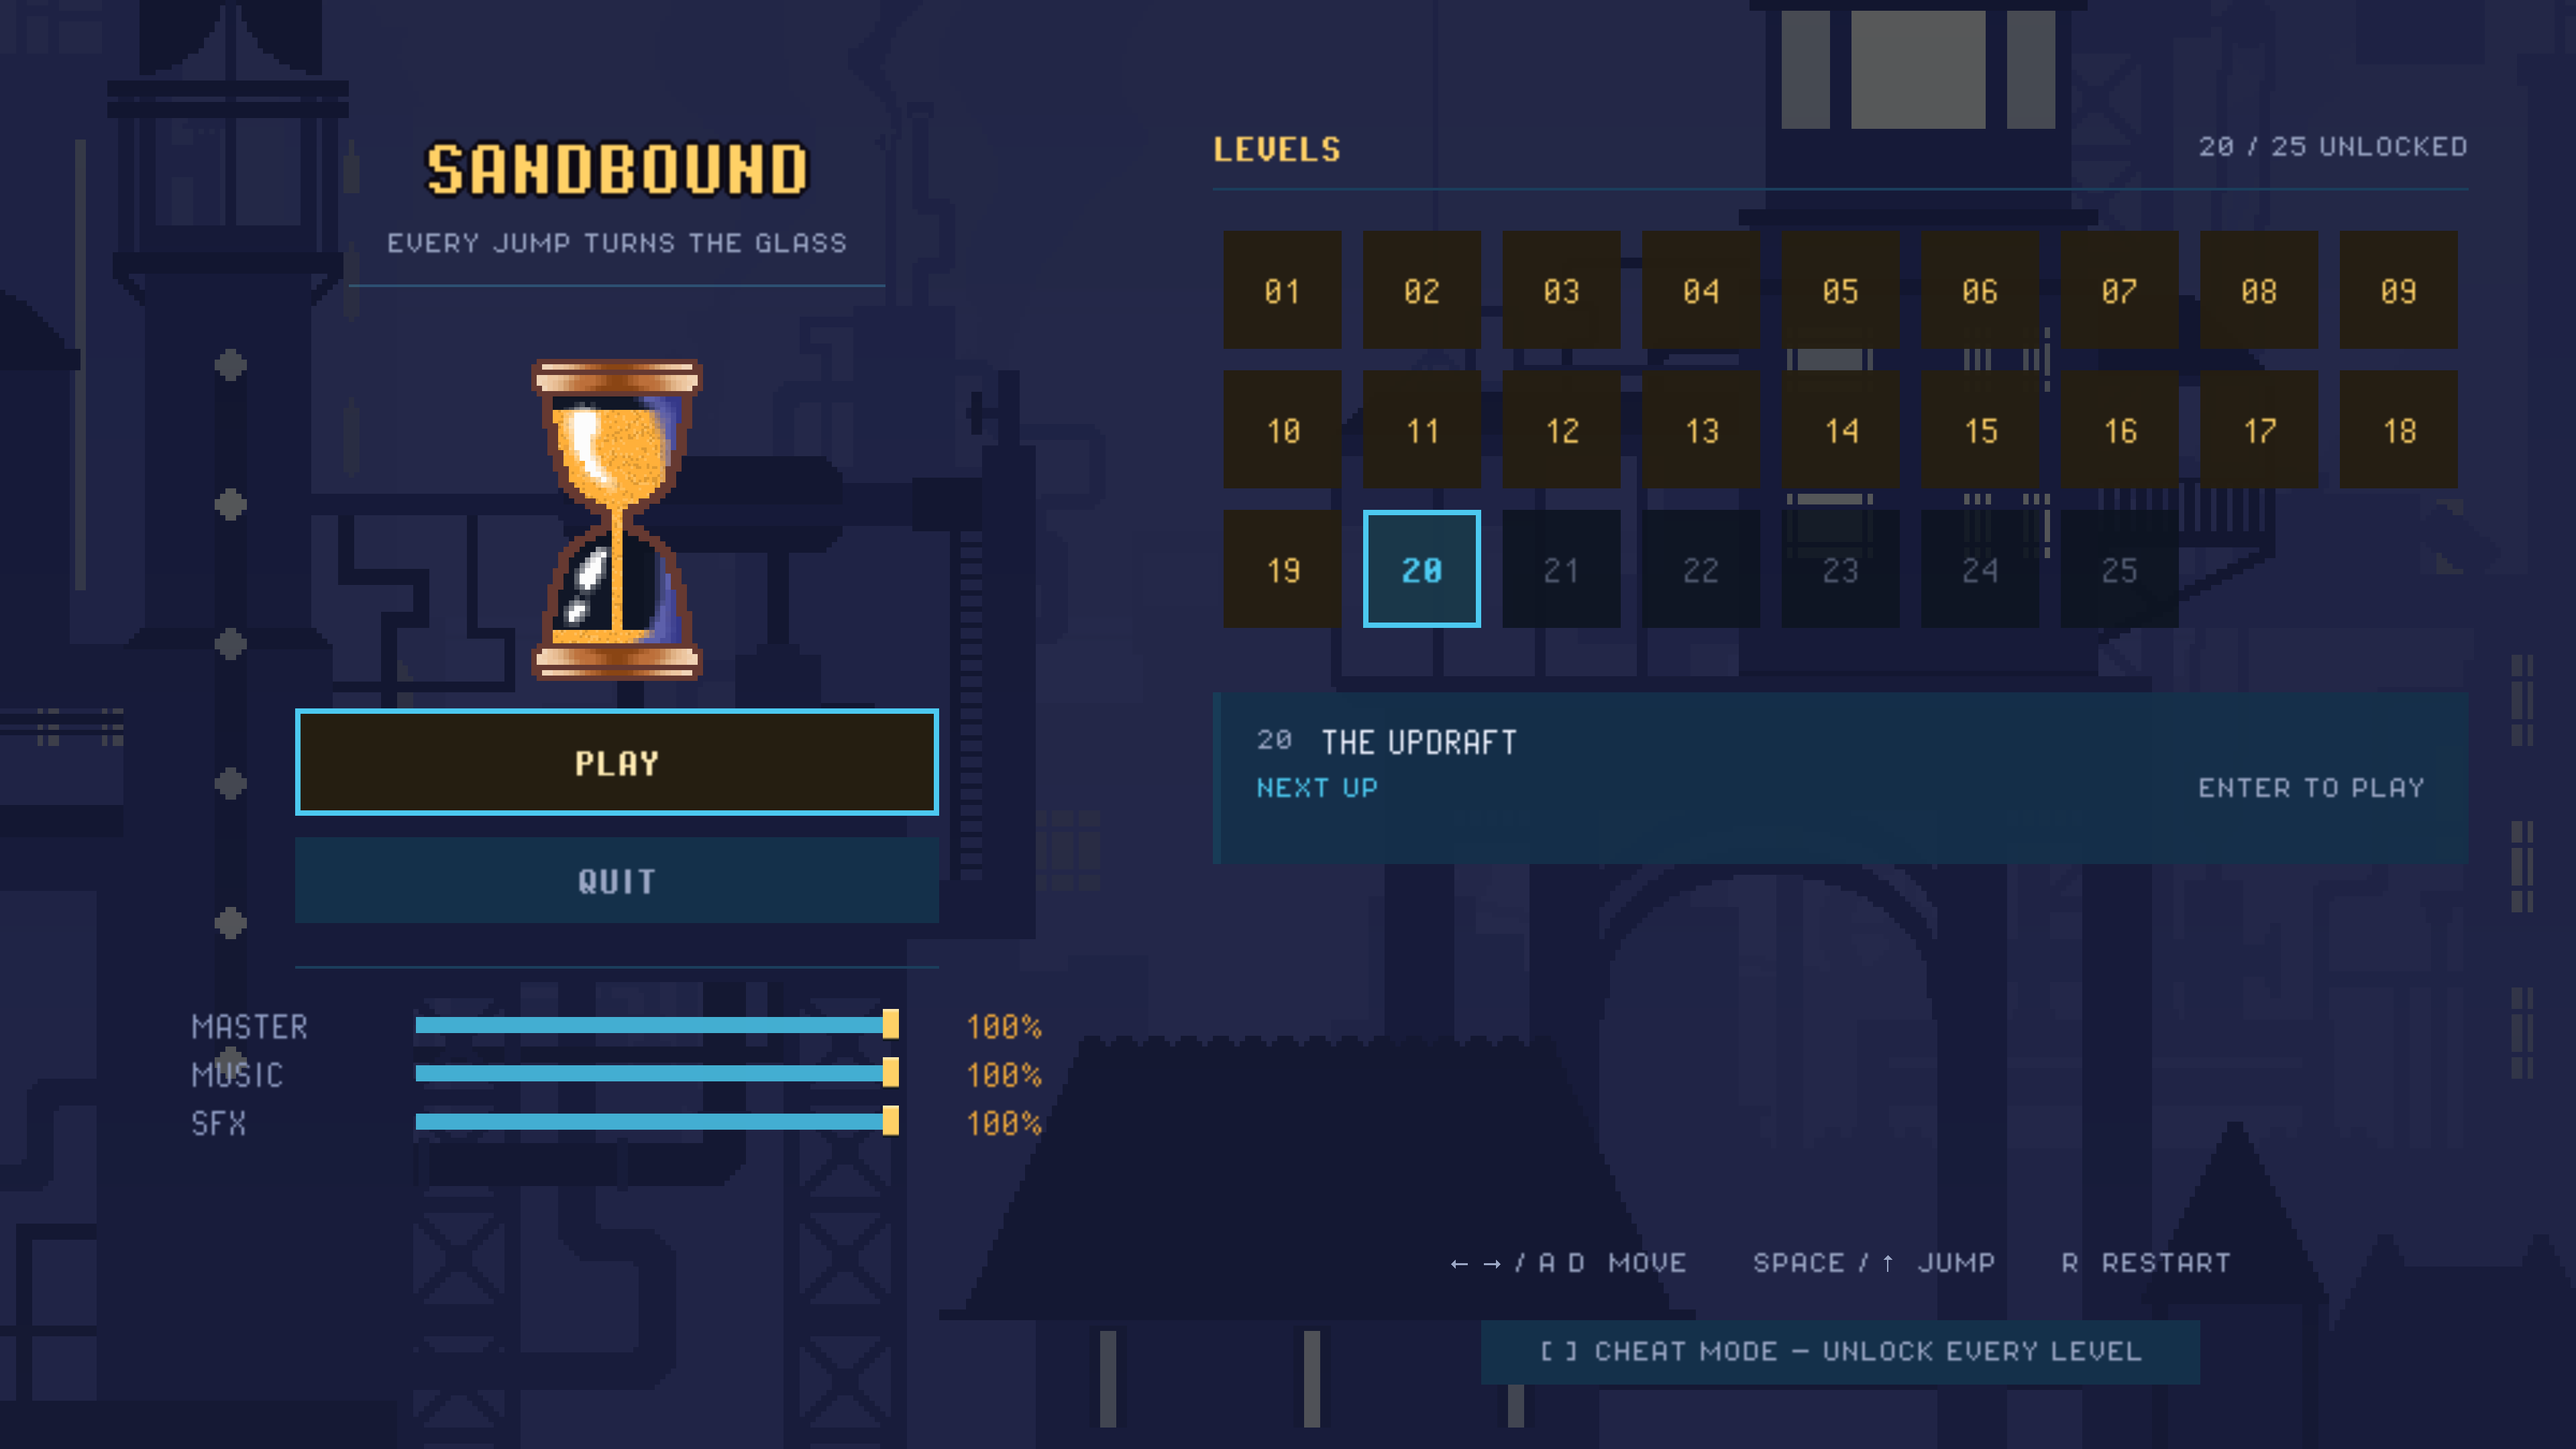
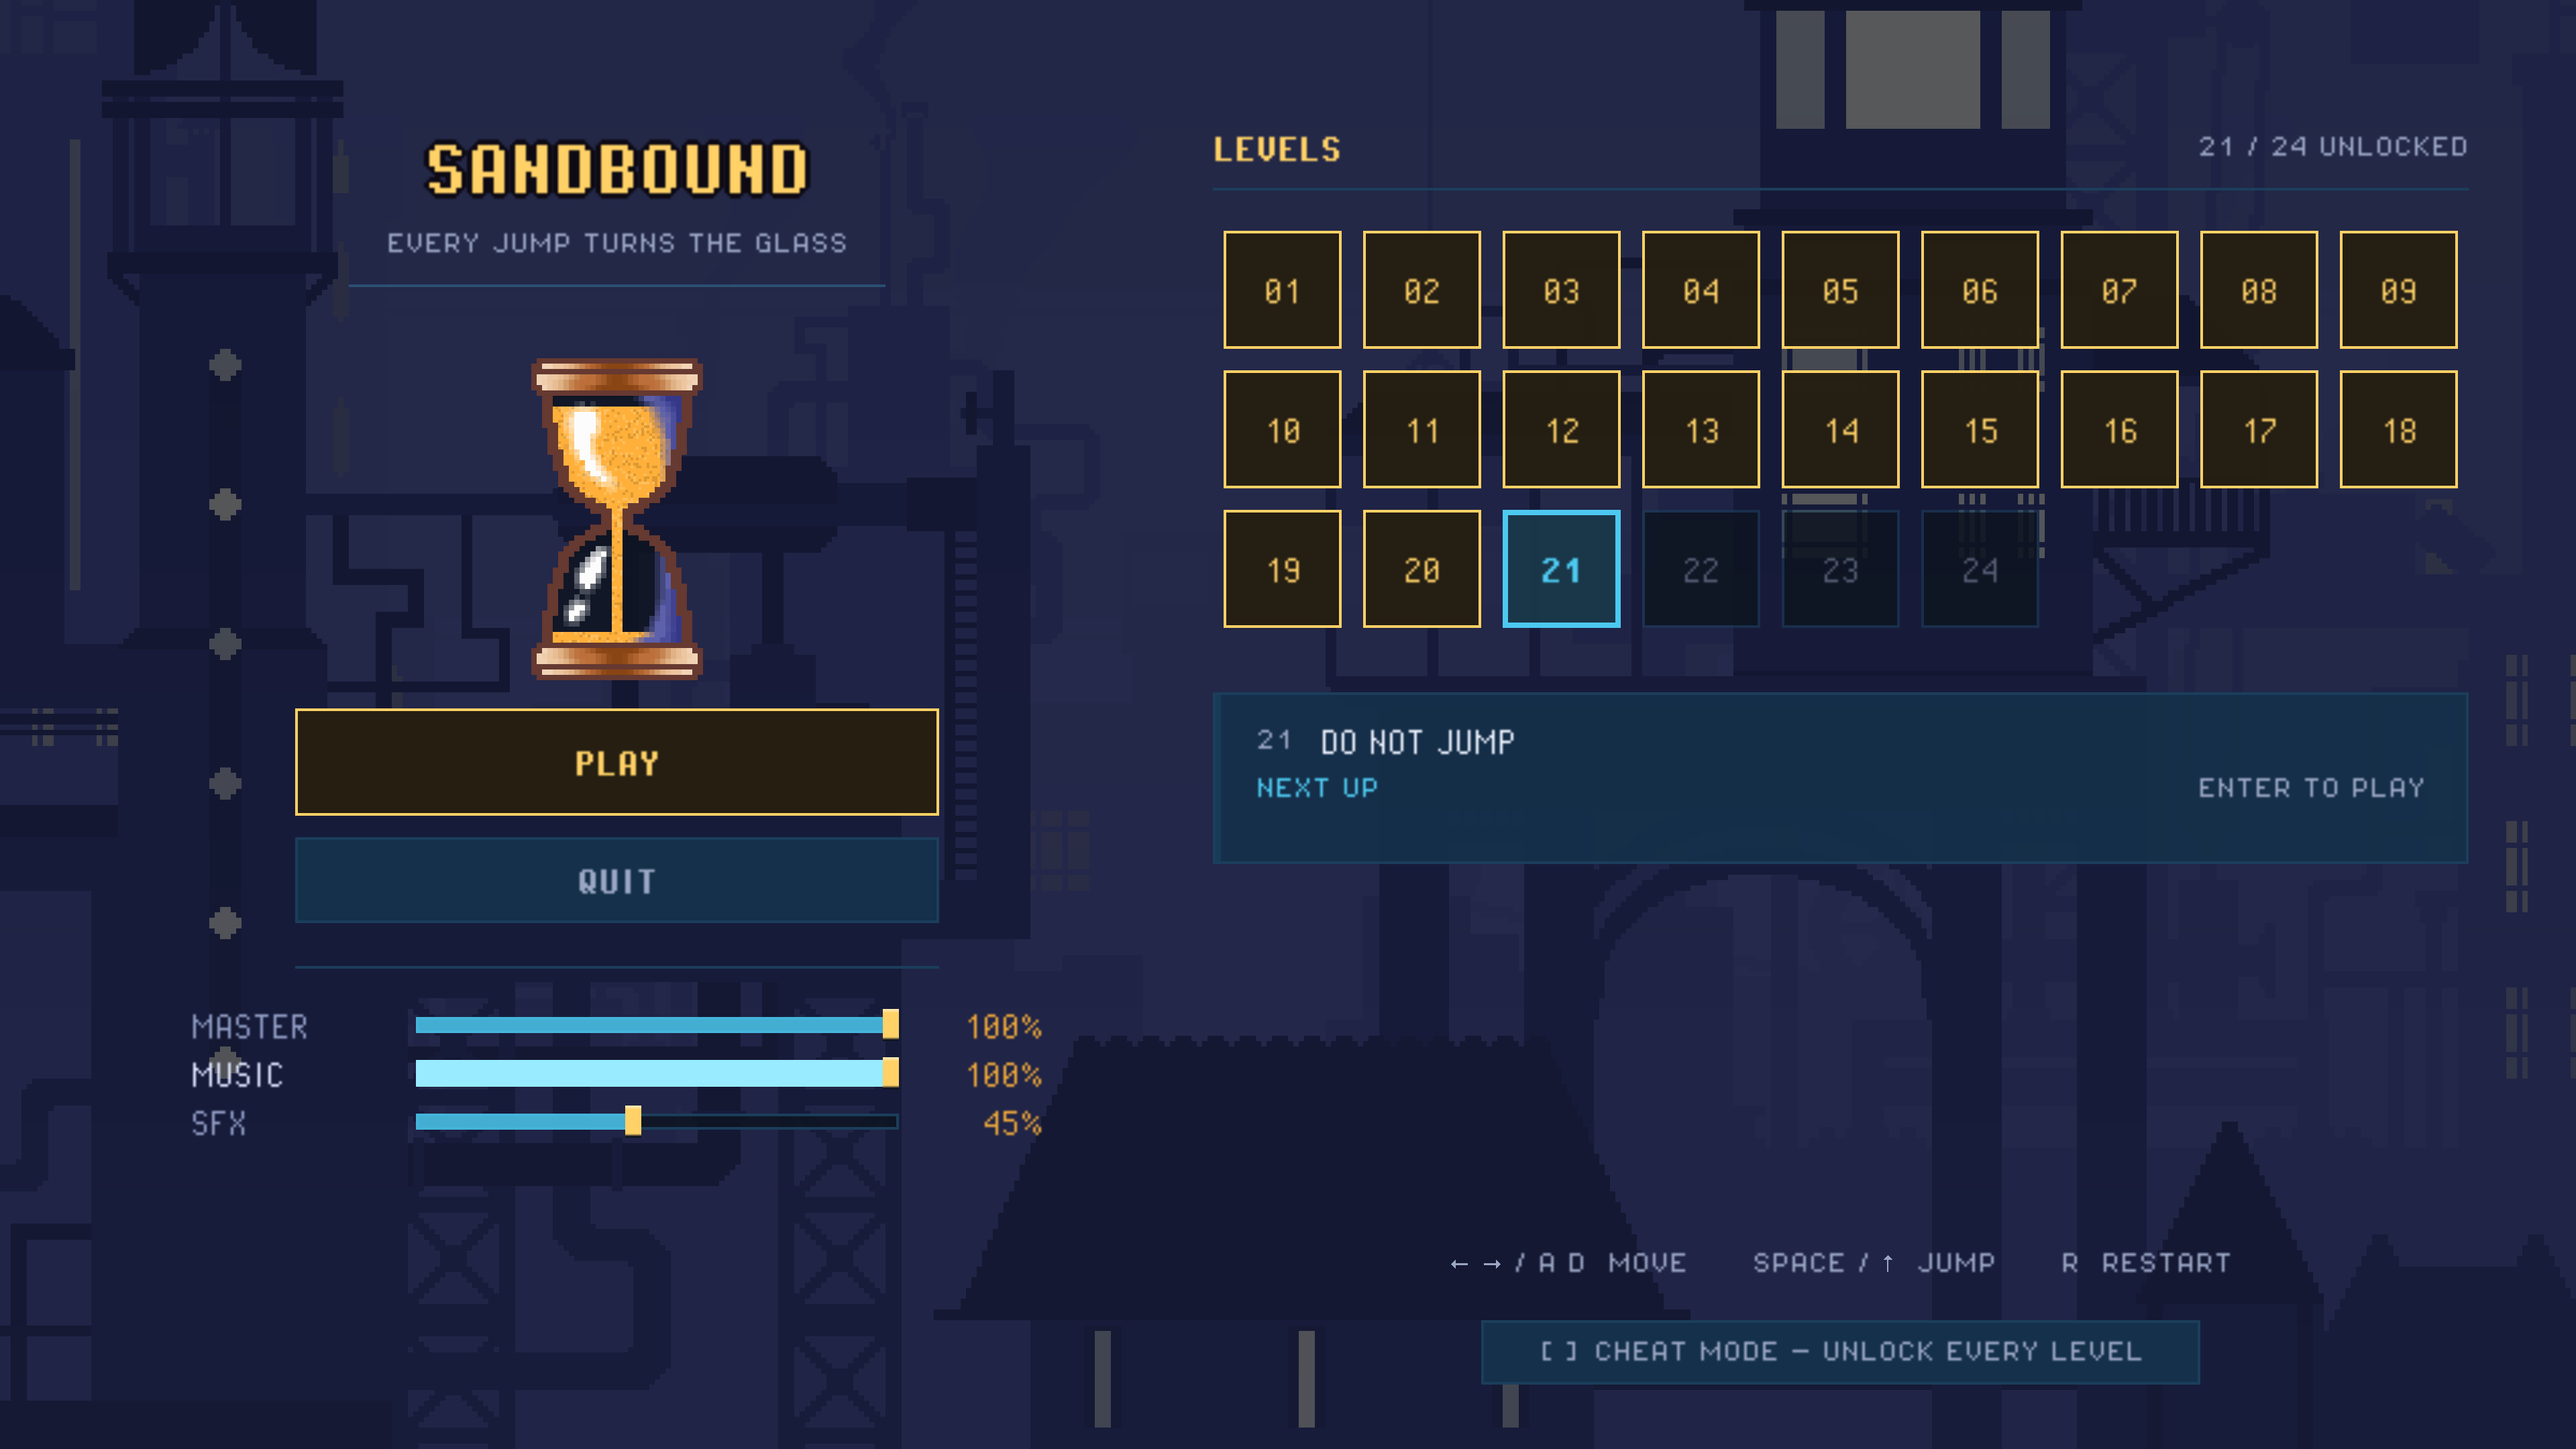
Show which volume slider has the keyboard

diff --git a/hourglass_hero_godot/docs/MENU_UI_DESIGN.md b/hourglass_hero_godot/docs/MENU_UI_DESIGN.md
@@ -249,6 +249,19 @@ Everything below was changed while implementing, because the screen said so.
 9. `Backdrop._load_layer_textures` and `_fog_colour` became public and static as
    `Backdrop.load_layer_textures` / `Backdrop.fog_colour`, so the menu builds its
    room from the same loader the levels do instead of a copy.
+10. **Every `border_width` has to be spelled out.** `StyleBoxFlat` defaults its
+    border widths to 0, so a stylebox carrying only a `border_color` draws no
+    border at all — which silently cost the gold edge on `PLAY` and on every
+    cleared chip, and all the plate borders, until it was caught. The four widths
+    are now written on every stylebox that names a border colour.
+11. **The focused slider is a size and a brightness, not a border.** Godot draws
+    the `slider` stylebox only as tall as its own minimum size and then paints
+    `grabber_area` across the whole filled span, so a full slider covers its own
+    track and no border on it can ever show. `FocusedSlider` grows the bar (3 → 5
+    px of content margin) and brightens the fill instead, and `audio_settings.gd`
+    brightens the bus name with it. `HSlider` has no `focus` stylebox to hook —
+    only `slider`, `grabber_area` and `grabber_area_highlight` — so this is a
+    variation swapped on `focus_entered`, not a theme state.
 
 ## 5. Decisions this leaves open
 
